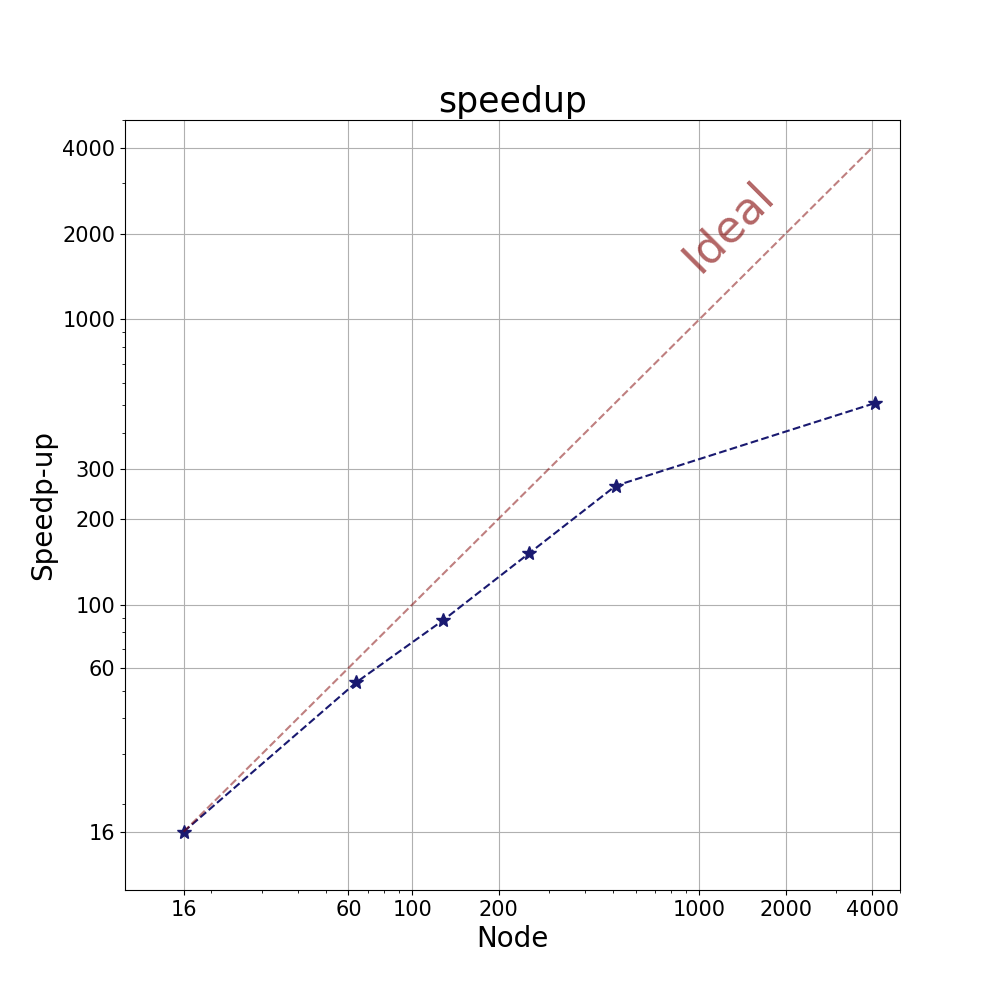
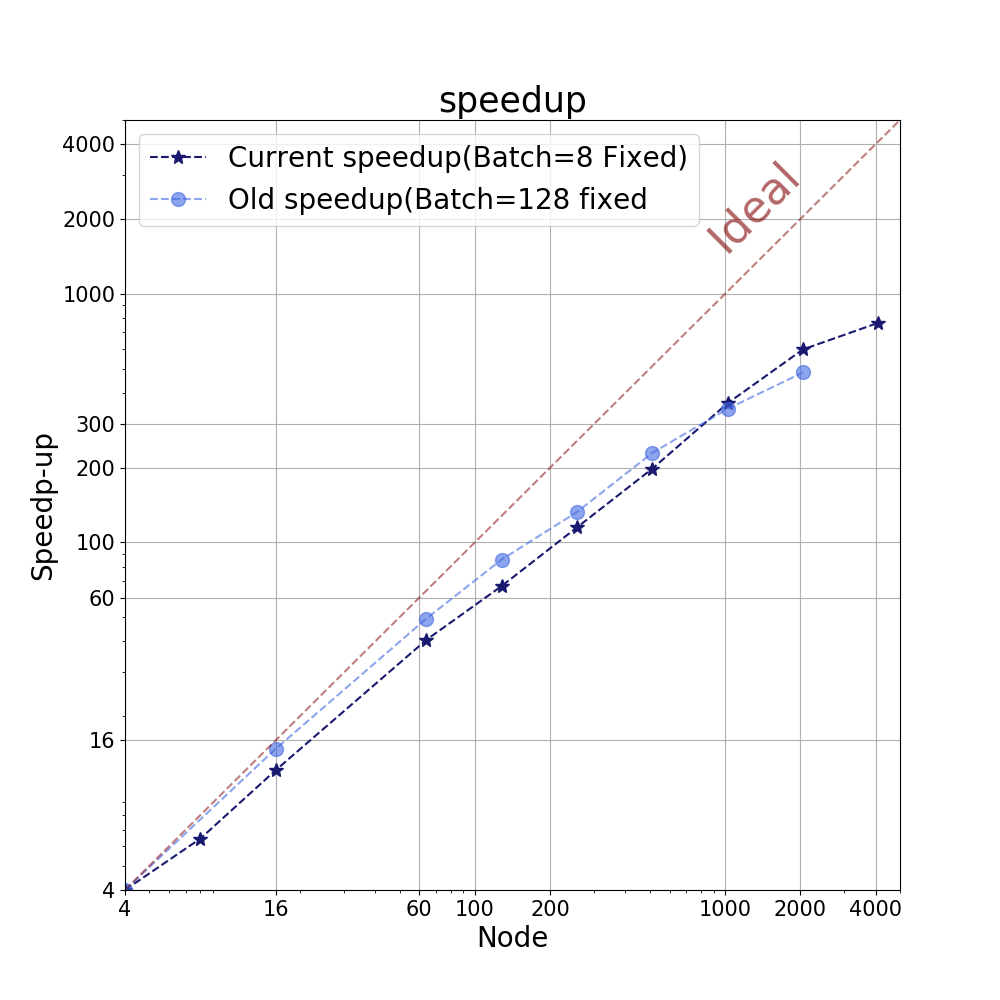
speedup

diff --git a/Analyze_Tool/speedup.py b/Analyze_Tool/speedup.py
@@ -5,33 +5,36 @@ import matplotlib.pyplot as plt
 import numpy as np
 
 # 16K results
-#time=[36670.725098371506, 9921.49017047882, 2970.891015291214, 1718.982388496399, 1106.7916436195374, 640.1377544403076, 425.4936149120331,303.94]
-#Single_time=36670.725098371506
-#node=[4,16,64,128,256,512,1024,2048]
+time_old=[36670.725098371506, 9921.49017047882, 2970.891015291214, 1718.982388496399, 1106.7916436195374, 640.1377544403076, 425.4936149120331,303.94]
+Single_time_old=36670.725098371506
+node_old=[4,16,64,128,256,512,1024,2048]
 
 # 32K results
-time = [85292.47870731354,25507.26446390152,15490.927917003632,8999.204348564148,5223.29126906395,2680.1628584861755]
-Single_time=85292.47870731354
-node=[16,64,128,256,512,4096]
-#node=[16,64,128,256,512,1024,2048,4096]
+time=[258567.16841275874,160685.8866262436,85292.47870731354,25507.26446390152,15490.927917003632,8999.204348564148,5223.29126906395,2850.1766772270203,1731.3487522602081,1353.4979276657104]
+Single_time= 258567.16841275874
+node=[4,8,16,64,128,256,512,1024,2048,4096]
+
+speedup_old =[]
+for i in time_old:
+	speedup_old.append(4 * Single_time_old / i)
+	#speedup.append(16 * Single_time / i)
 
 speedup =[]
 for i in time:
-	#speedup.append(4 * Single_time / i)
-	speedup.append(16 * Single_time / i)
-print(speedup)
-
+	speedup.append(4 * Single_time / i)
+	#speedup.append(16 * Single_time / i)
 
 plt.rc('xtick',labelsize=15)
 plt.rc('ytick',labelsize=15)
 
 #x = np.linspace(0,2100,21000)
-x = np.linspace(16,4000,21000)
+x = np.linspace(4,5000,20000)
 y = x
 fig,axs = plt.subplots(1,figsize=(10,10))
-axs.plot(node,speedup,'--*',color='midnightblue',markersize=10)
+axs.plot(node,speedup,'--*',color='midnightblue',markersize=10,label="Current speedup(Batch=8 Fixed)")
+axs.plot(node_old,speedup_old,'--o',color='royalblue',markersize=10,alpha=0.6,label="Old speedup(Batch=128 fixed")
 axs.plot(x,y,'--',color='maroon',alpha=0.5)
-
+plt.legend(prop={'size':20})
 
 xmin=10
 xmax=5000
@@ -45,12 +48,12 @@ axs.set_xlim([xmin,xmax])
 axs.set_ylim([ymin,ymax])
 
 #minor_ticks = np.arange(4, 5000, 10)
-minor_ticks = np.arange(16, 5000, 10)
+minor_ticks = np.arange(4, 5000, 10)
 
 #axs.set_xticks([4,5,6,7,10,20,30,100,200,1000,2000,3000,4000])
-axs.set_xticks([16,60,100,200,1000,2000,4000])
+axs.set_xticks([4,16,60,100,200,1000,2000,4000])
 axs.set_xticks(minor_ticks, minor=True)
-axs.set_yticks([16,60,100,200,300,1000,2000,4000])
+axs.set_yticks([4,16,60,100,200,300,1000,2000,4000])
 axs.set_yticks(minor_ticks, minor=True)
 
 

diff --git a/Analyze_Tool/node_vs_time.py b/Analyze_Tool/node_vs_time.py
@@ -1,5 +1,5 @@
 import matplotlib
-#matplotlib.use('Agg')
+matplotlib.use('Agg')
 import pandas as pd
 import matplotlib.pyplot as plt
 import numpy as np
@@ -9,18 +9,23 @@ import numpy as np
 #time = [2223.3251526355743, 1451.9124898910522, 1137.9917290210724, 1140.3619375228882, 1166.649931192398,1014.0974791049957,1353.4979276657104]
 
 ## 32K new 100 epoch default
-time = [3694.408791065216, 2829.7513008117676, 2580.9733810424805, 2276.055812358856, 2361.5011258125305,2221.3792428970337,2680.1628584861755]
+#time = [3694.408791065216, 2829.7513008117676, 2580.9733810424805, 2276.055812358856, 2361.5011258125305,2221.3792428970337,2680.1628584861755]
+
+## 8Kfix for speedup
+time=[258567.16841275874,160685.8866262436,85292.47870731354,25507.26446390152,15490.927917003632,8999.204348564148,5223.29126906395,2850.1766772270203,1731.3487522602081,1353.4979276657104]
+
 
 #log scl 32K
 #time = [2117.8648080825806,1450.6409270763397,1160.1696314811707,1022.107349872589,878.6063137054443,840.2194459438324]
 
 #log scl 16K
 #time = [2440.980729341507, 1764.3287065029144, 1551.672635793686, 1397.4543027877808, 1392.6179225444794,1300.065186738968]
-node=[64,128,256,512,1024,2048,4096]
+
+node=[4,8,16,64,128,256,512,1024,2048,4096]
 
 
 
-text = ['64node','128','256','512','1024','2048','4096']
+text = ['4node','8','16','64','128','256','512','1024','2048','4096']
 
 
 title='Training elapsed time'
@@ -33,12 +38,12 @@ axs.plot(node,time,'--bo',color='royalblue',markersize=12)
 
 i=0
 for x,y in zip(node,time):
-	
-	if(i!=3):
-		plt.text(x+7,y-8,text[i],fontsize=18)
+	if i!=4 or i!=5:
+		plt.text(x+9,y-8,text[i],fontsize=15)
+		print(i, text[i])
+	else:
+		plt.text(x-7,y-16,text[i],fontsize=15)
 	i+=1
-plt.text(node[3]+40,time[3]-8,text[3],fontsize=18)
-
 
 axs.set_title(title,fontsize=25)
 axs.set_xlabel('Node',fontsize=25)
@@ -46,6 +51,6 @@ axs.set_ylabel('Time',fontsize=25)
 axs.grid()
 
 plt.tight_layout()
-plt.show()
+#plt.show()
 plt.savefig('node_vs_time.png')
 
